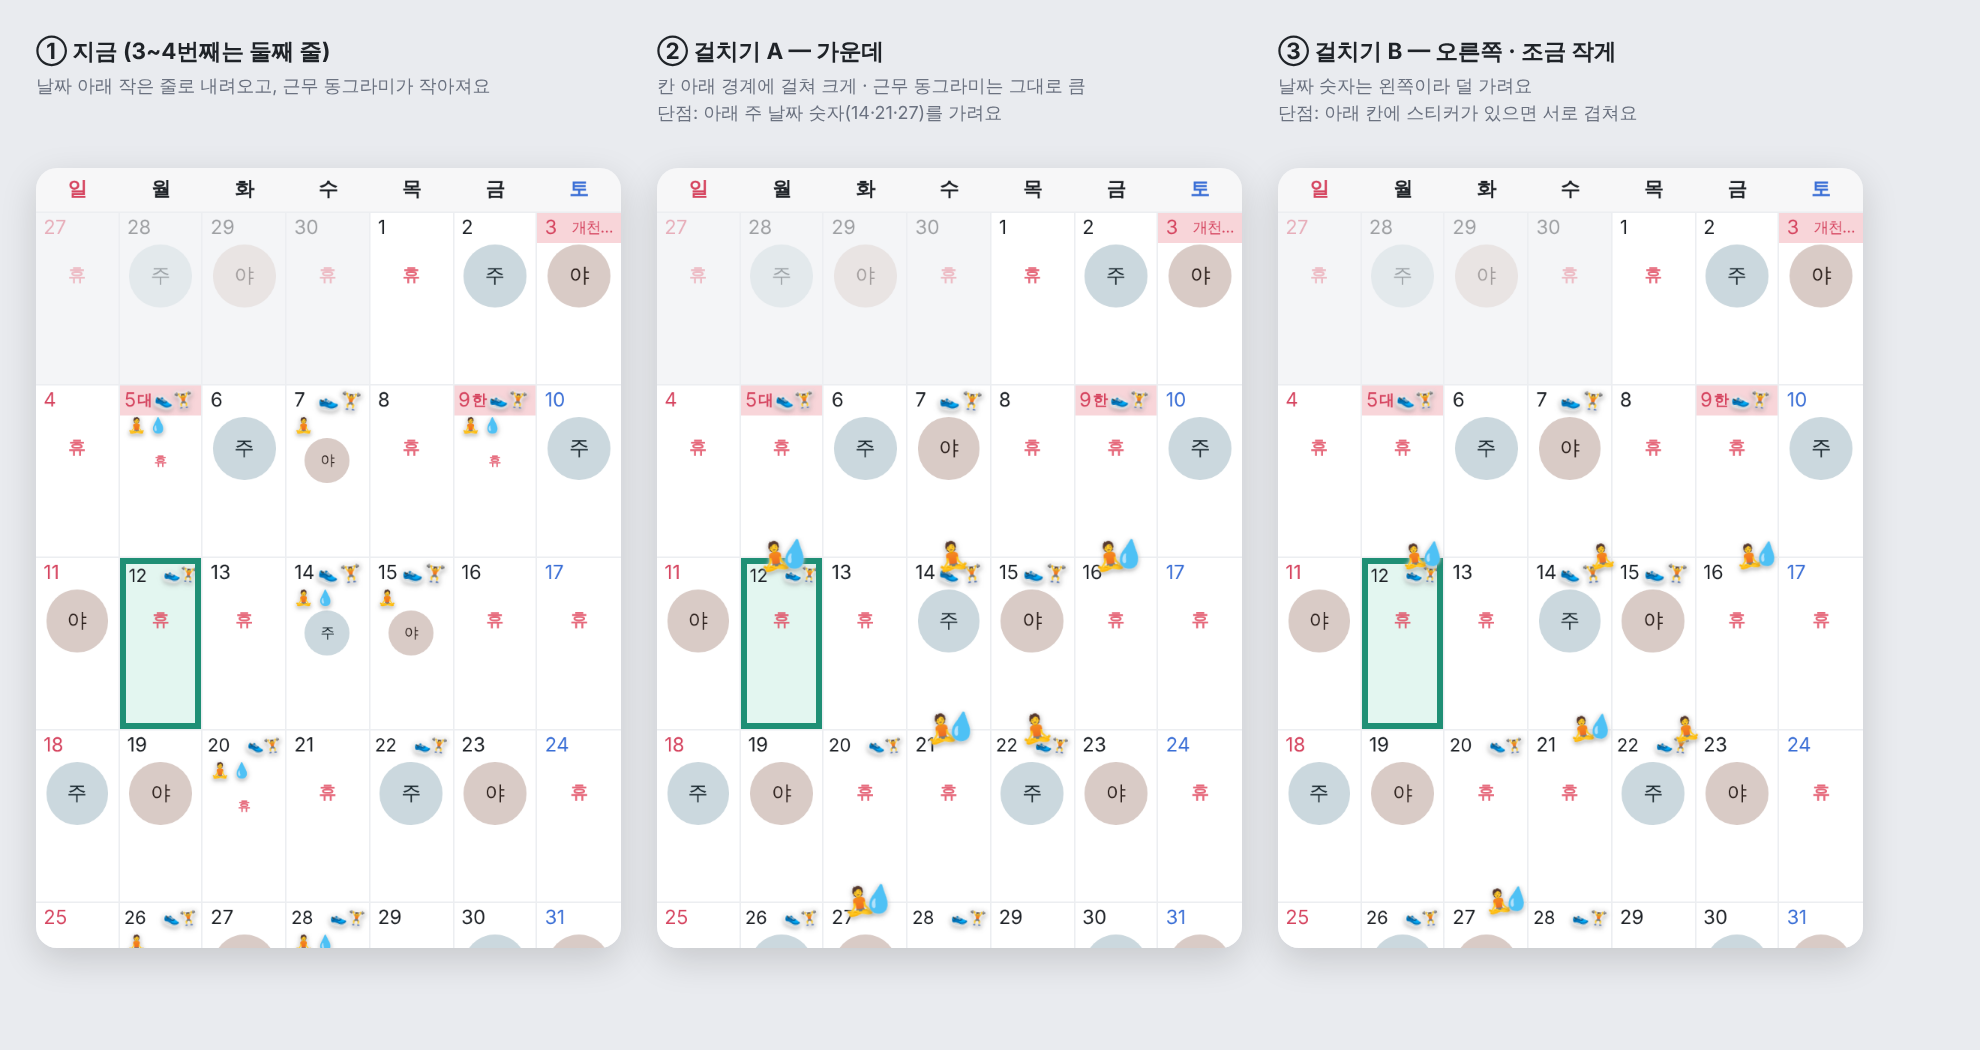
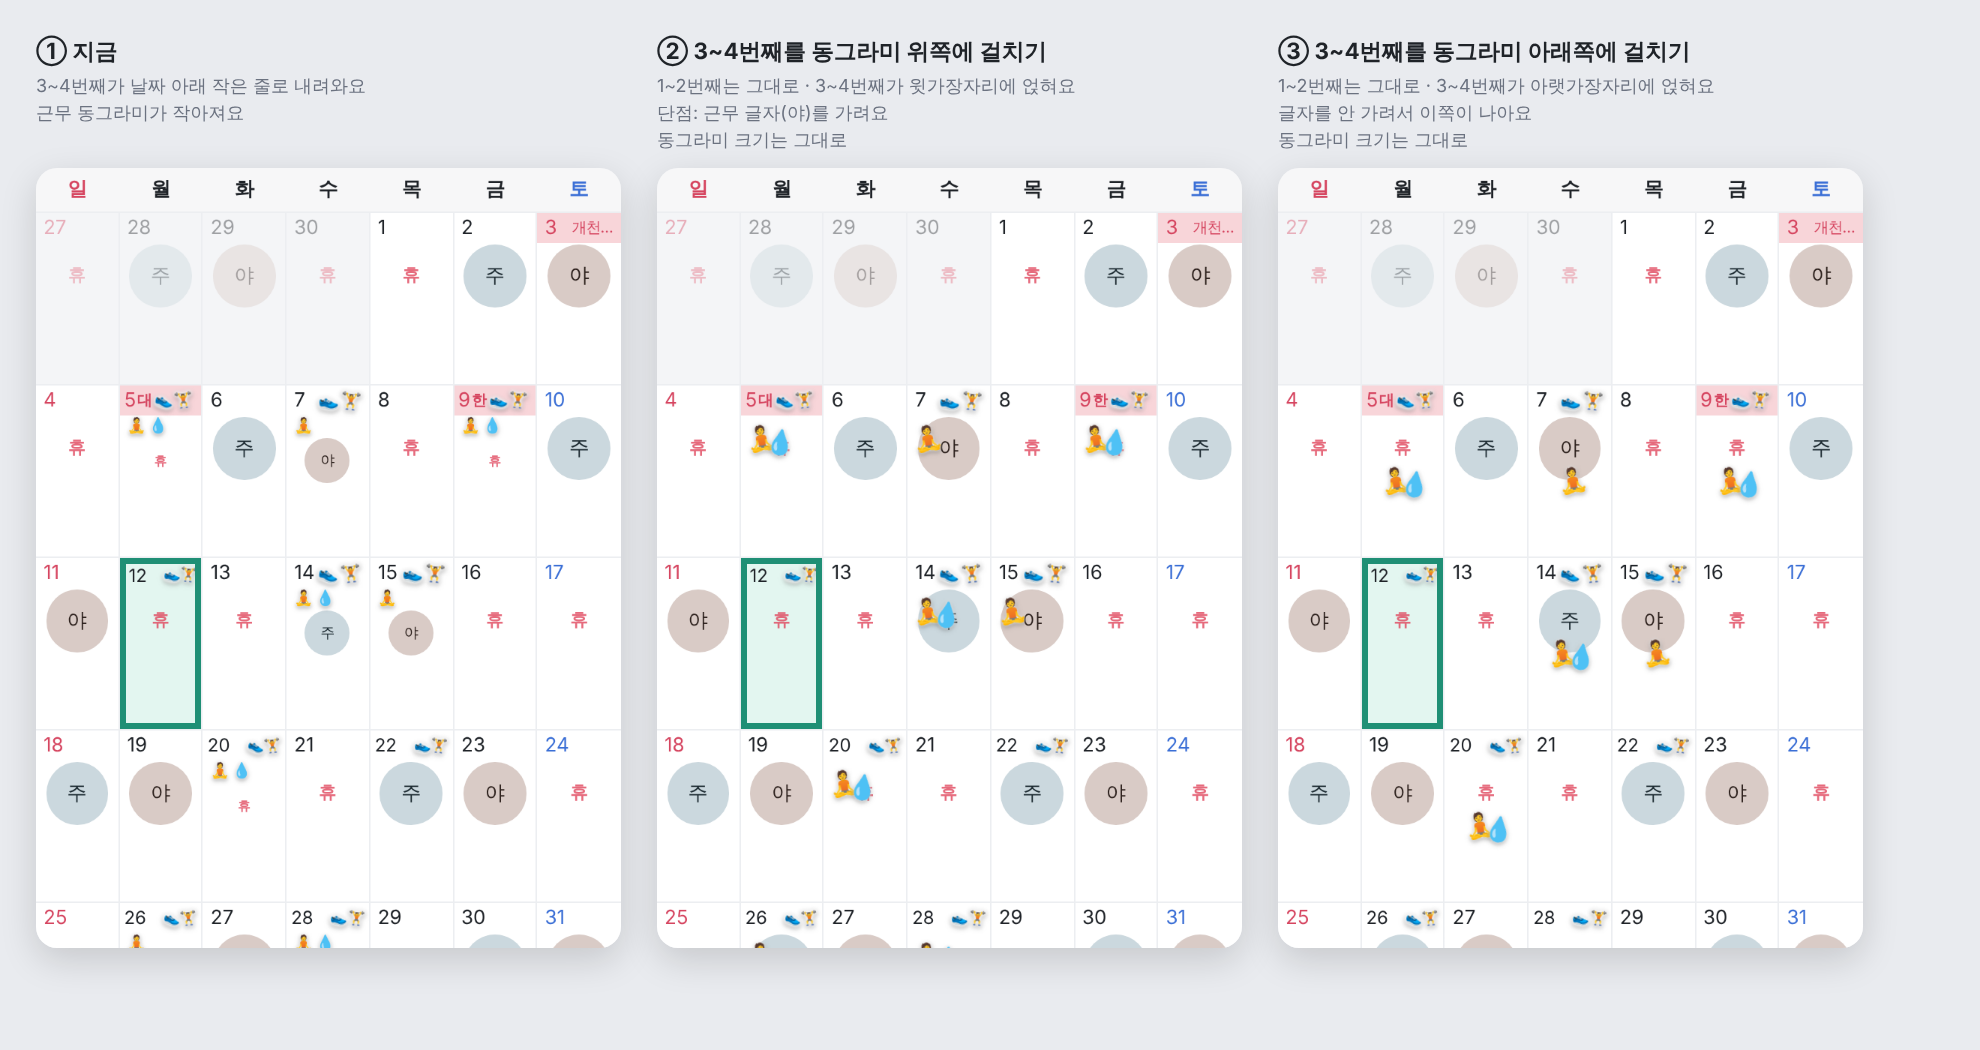
시안: 스티커 3~4번째를 근무 동그라미에 걸치기로 수정
Claude-Session: https://claude.ai/code/session_01DP2NyZv5qNdwYSJLeYP8U7

diff --git a/docs/TODO.md b/docs/TODO.md
@@ -841,4 +841,4 @@
 - [ ] **스티커 반복에 "매월 N일" 추가 (메모 반복은 스티커로 대신하기로 함, 3차 개인 캘린더 묶음)**: 지금 스티커 반복 = 이날만 · 매일 · 요일 · 근무 맞춤. "매월 25일(월급·관리비·정기결제)" 은 없음(연 1회 기념일은 있음). → 반복 줄에 "매달" 하나 추가(날짜 고르기, 31일 없는 달은 말일). 메모에는 반복을 안 넣음(위 "메모 옵션" 결정 그대로). 알아둘 차이: 스티커는 달력에 그림 + 이름은 날짜 창에서만 보임(글자 메모처럼 칸에 안 보임)
 - [ ] **스티커 그림 목록에 돈 모양 추가 (사용자 제안, 3차 개인 캘린더 묶음, "매달" 반복과 함께)**: 지금 목록 `STAMP_EMO` 14개(🏃💪🧘💧🚴🏊🚶🥗📖😴🦷🧴⚖🎯)에 돈 · 생활비 쪽 4~6개 추가 — 💰 💵 💳 🧾 🏦 🛒. 그림만 늘어나는 일(목록 한 줄), 기존 스티커에 영향 없음. 목록이 길어지면 줄바꿈 확인
 - [ ] **스티커 3~4개일 때 "주에 걸치게" 붙이기 (사용자 제안, 시안부터)**: 지금은 "스티커 많이 쓰기"를 켜면 3~4번째가 날짜 아래 작은 둘째 줄로 내려와 근무 동그라미를 작게 만듦. 제안 = 진짜 스티커처럼 칸 경계 · 근무 띠 위로 살짝 삐져나가 걸쳐 붙고, 서로 조금 겹치고 기울기가 다름. 조심할 곳: ① 아래 주 날짜 숫자 · 스티커 · 메모 줄을 가리면 안 됨(삐져나오는 길이 약 6px 이내, 날짜 줄 오른쪽만) ② 눌림은 그 칸이 받게(pointer-events) ③ 마지막 주 아래/달력 바깥에서 잘림 ④ 스샷 공유 이미지에도 같이 나오게. 시안: 실제 달력에 CSS 만 입혀서 지금 vs 걸치기 비교 이미지(design/ui-sticker-overlap.png)
-  · 시안 그림: design/ui-sticker-overlap.png (① 지금 ② 걸치기 A 가운데 ③ 걸치기 B 오른쪽 · 작게) — 보고 정하기
+  · 정정(사용자): 1~2번째는 지금처럼 날짜 줄, 3~4번째만 아래 근무 동그라미(주 · 야) 가장자리에 살짝 걸쳐 붙임(칸 경계를 넘지 않음). 시안 design/ui-sticker-overlap.png: ② 동그라미 위쪽(글자를 가려서 별로) ③ 동그라미 아래쪽(글자 안 가림, 추천) — 보고 정하기
